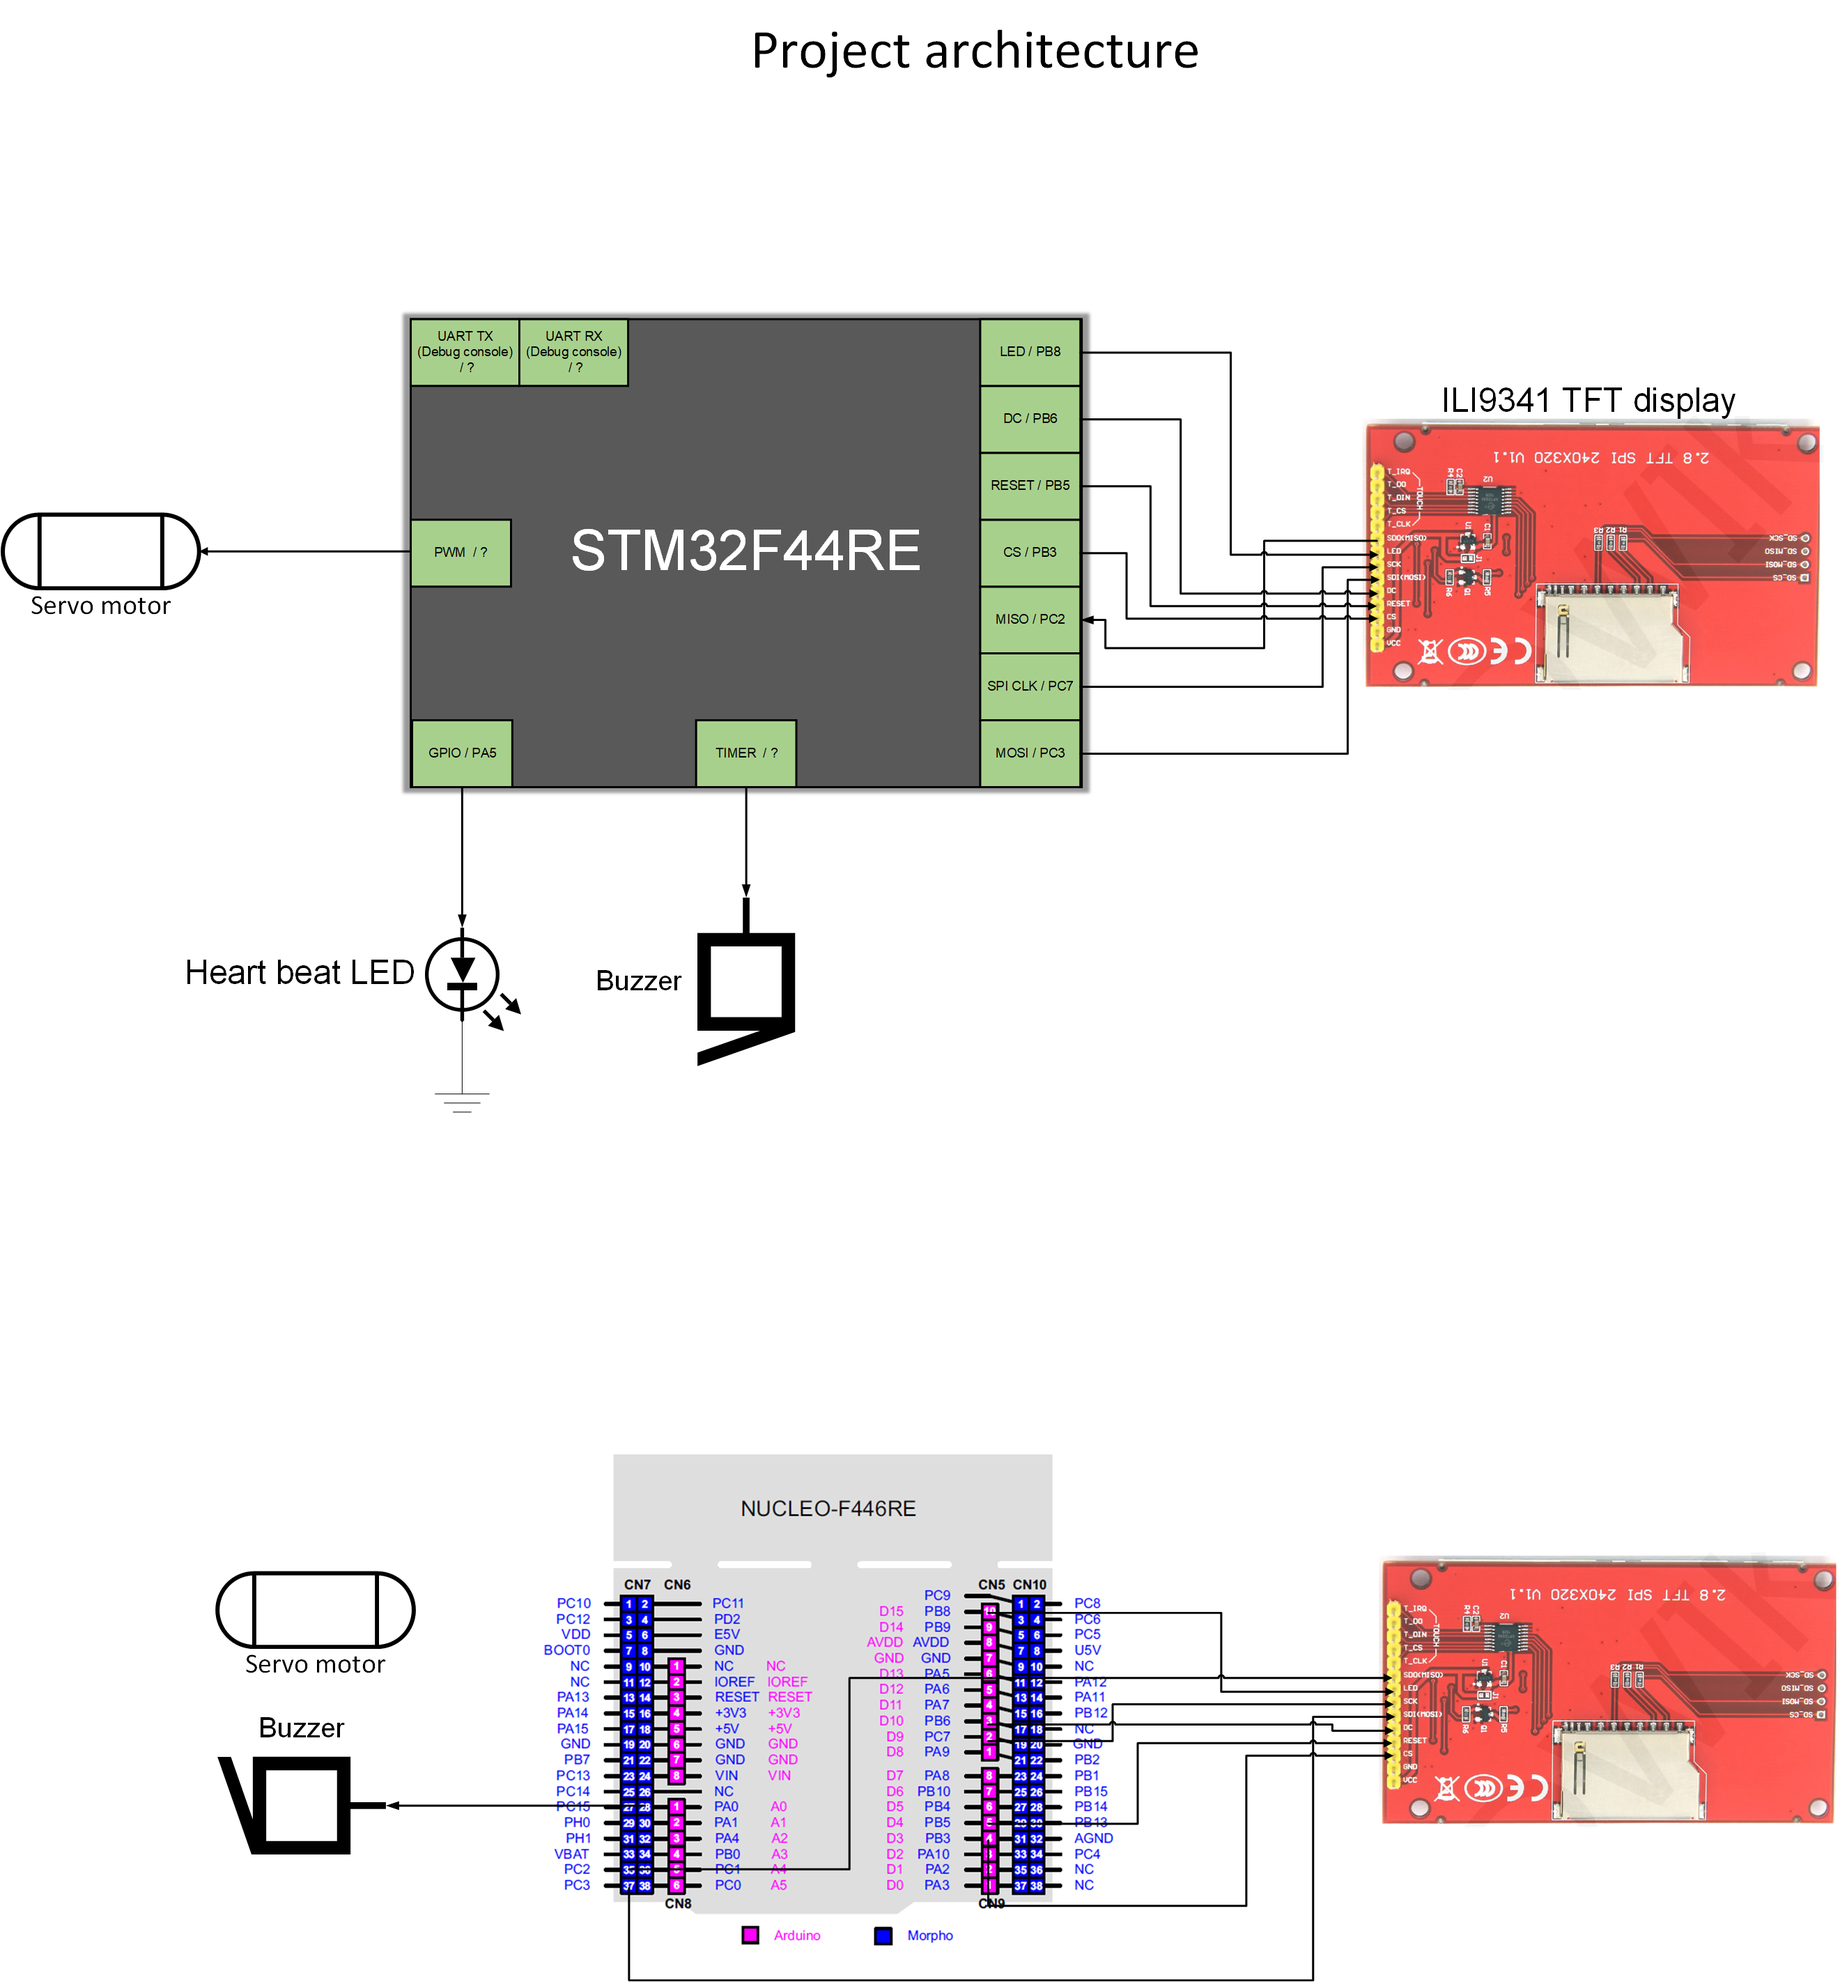
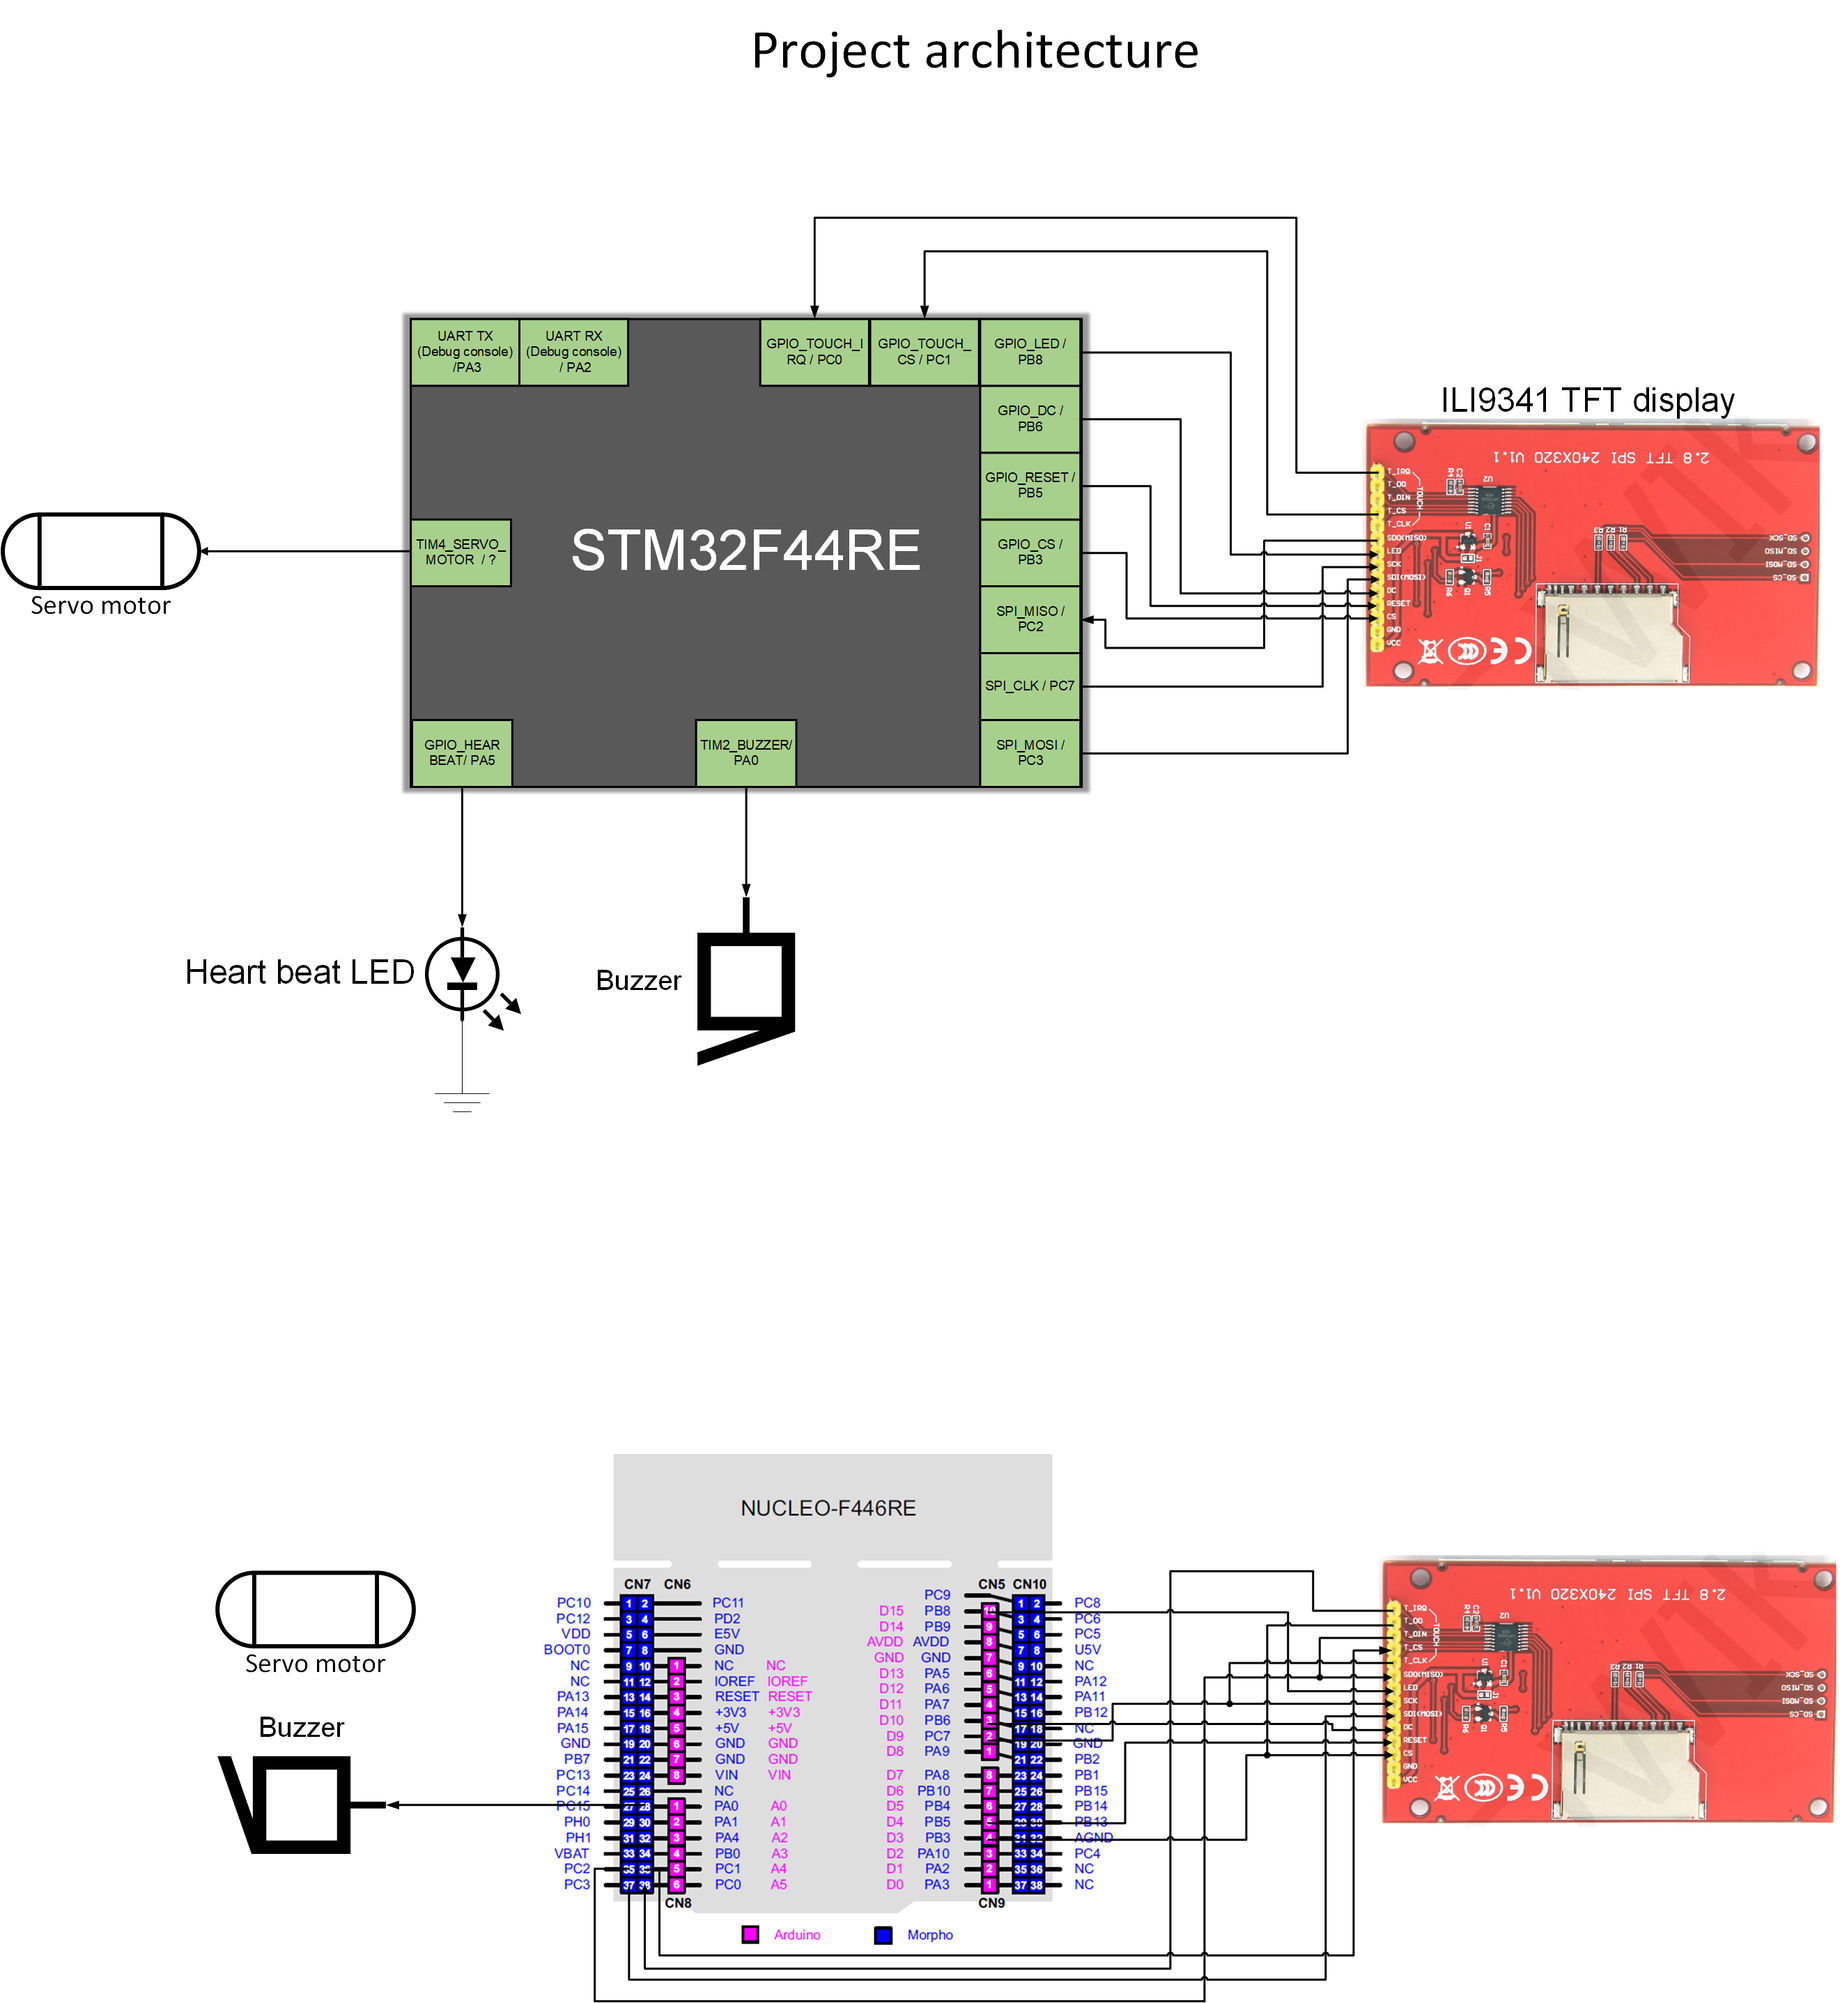
update 1341 driver and architecture

diff --git a/workspace/pet_food_dispenser/Drivers/lib_ili9341/tft_ili9341.h b/workspace/pet_food_dispenser/Drivers/lib_ili9341/tft_ili9341.h
@@ -4,7 +4,6 @@
 
 #include "stm32f4xx_hal.h"
 #include <stdint.h>
-#include "fonts.h"
 
 /* @GPIO definitions */
 #define TFT_GPIOA                           GPIOA
@@ -53,8 +52,8 @@
 #define  TFT_SPI_MODULE_4                   SPI4
 
 /* Max values of display */
-#define TFT_ILI9341_WIDTH       240
-#define TFT_ILI9341_HEIGHT      320
+#define TFT_ILI9341_MAX_X           240
+#define TFT_ILI9341_MAX_Y           320
 
 /************************************************************/
                  /* BEGIN OF USER CONFIGURATION */
@@ -75,9 +74,9 @@
     RESET --> PB5
     DC    --> PB6
     LED   --> PB8
-    MOSI  --> PC3
-    MISO  --> PC2
-    SCK   --> PC7
+    MOSI  --> PA7
+    MISO  --> PA6
+    SCK   --> PA5
 */
 
 /* CS */
@@ -97,12 +96,12 @@
 #define TFT_LED_PIN_NUM                     TFT_PIN8
 
 /* SPI section */
-#define TFT_SPI_PORT                        TFT_GPIOC
-#define TFT_SPI_MOSI_PIN_NUM                TFT_PIN3
-#define TFT_SPI_MISO_PIN_NUM                TFT_PIN2
-#define TFT_SPI_SCK_PIN_NUM                 TFT_PIN7
+#define TFT_SPI_PORT                        TFT_GPIOA
+#define TFT_SPI_MOSI_PIN_NUM                TFT_PIN7
+#define TFT_SPI_MISO_PIN_NUM                TFT_PIN6
+#define TFT_SPI_SCK_PIN_NUM                 TFT_PIN5
 #define TFT_SPI_ALT                         TFT_AF5_SPI1
-#define TFT_SPI_MODULE                      TFT_SPI_MODULE_2
+#define TFT_SPI_MODULE                      TFT_SPI_MODULE_1
 
 /************************************************************/
                  /* END OF USER CONFIGURATION */
@@ -210,6 +209,8 @@ typedef enum
     BROWN   = 0xBBCA,
 } Color;
 
+#define TFT_ILI9341_WIDTH       240
+#define TFT_ILI9341_HEIGHT      320
 
 /*
  * Function name:
@@ -242,7 +243,5 @@ void tft_ili9341_draw_pixel(uint16_t x, uint16_t y, Color eColor);
 void tft_ili9341_fill_screen(Color eColor);
 
 
-void ILI9341_DrawImage(uint16_t x, uint16_t y, uint16_t w, uint16_t h, const uint16_t* data);
-void tft_ili9341_send_str(uint16_t x, uint16_t y, const char* str, FontDef font, uint16_t color, uint16_t bgcolor);
 #endif
 

diff --git a/workspace/pet_food_dispenser/Drivers/lib_ili9341/tft_ili9341_touch.h b/workspace/pet_food_dispenser/Drivers/lib_ili9341/tft_ili9341_touch.h
@@ -1,0 +1,30 @@
+
+
+#ifndef __TFT_ILI9341_TOUCH_H
+#define __TFT_ILI9341_TOUCH_H
+
+#include <stdbool.h>
+#include "stm32f4xx_hal.h"
+#include "stdint.h"
+
+#define ILI9341_TOUCH_SPI_PORT		hspi1
+extern SPI_HandleTypeDef ILI9341_TOUCH_SPI_PORT;
+
+typedef enum
+{
+    TOUCH_NO_PRESSED,
+    TOUCH_PRESSED
+}TouchStatus;
+
+#define ILI9341_TOUCH_IRQ_PIN_NUM           GPIO_PIN_0
+#define ILI9341_TOUCH_IRQ_GPIO_PORT         GPIOC
+#define ILI9341_TOUCH_CS_PIN_NUM            GPIO_PIN_1
+#define ILI9341_TOUCH_CS_GPIO_PORT          GPIOC
+
+#define ILI9341_TOUCH_WEIGHT                240
+#define ILI9341_TOUCH_HEIGHT                320
+
+TouchStatus ili9341_isTouchPressed(void);
+TouchStatus ili93411_getTouchXY(uint16_t *x, uint16_t *y);
+
+#endif
